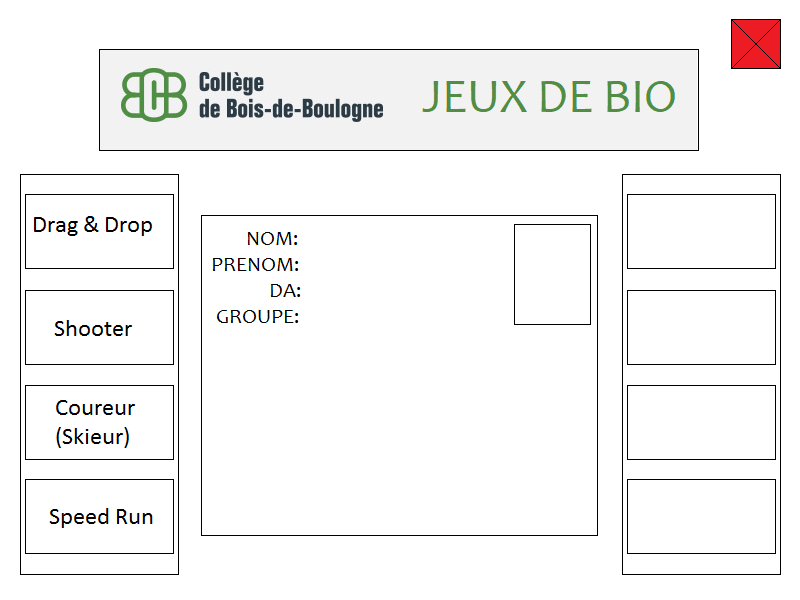
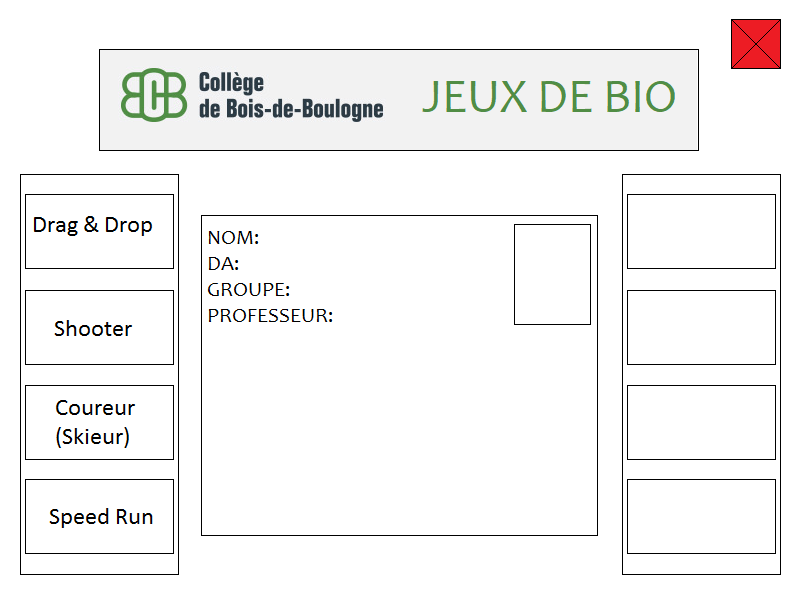
monde etudiant

Changed region(s): [[0.25, 0.39, 0.4062, 0.54]]

diff --git a/src/ca/qc/bdeb/vue/principale/MondeEtudiant.java b/src/ca/qc/bdeb/vue/principale/MondeEtudiant.java
@@ -59,24 +59,24 @@ public class MondeEtudiant extends JComponent {
         image = Toolkit.getDefaultToolkit().getImage(controleur.getLocationFenetrePrincipaleLogIn());
 
         lblNom.setText(controleur.getEtudiant().getNom());
-        lblNom.setLocation(310, 230);
+        lblNom.setLocation(262, 227);
         lblNom.setSize(190, 20);
         this.add(lblNom);
-
-        lblProf.setText(controleur.getEtudiant().getProfesseur().getNom() + "");
-        lblProf.setLocation(310, 255);
-        lblProf.setSize(190, 20);
-        this.add(lblProf);
-
+        
         lblDA.setText(controleur.getEtudiant().getDa());
-        lblDA.setLocation(310, 280);
+        lblDA.setLocation(246, 254);
         lblDA.setSize(190, 20);
         this.add(lblDA);
-        
+
         lblGroupe.setText(controleur.getEtudiant().getGroupe().getNom());
-        lblGroupe.setLocation(310, 305);
+        lblGroupe.setLocation(293, 278);
         lblGroupe.setSize(190, 20);
         this.add(lblGroupe);
+        
+        lblProf.setText(controleur.getEtudiant().getProfesseur().getNom() + "");
+        lblProf.setLocation(337, 303);
+        lblProf.setSize(190, 20);
+        this.add(lblProf);
 
         boutonDragDrop.setLocation(26, 194);
         boutonDragDrop.setSize(147, 74);
